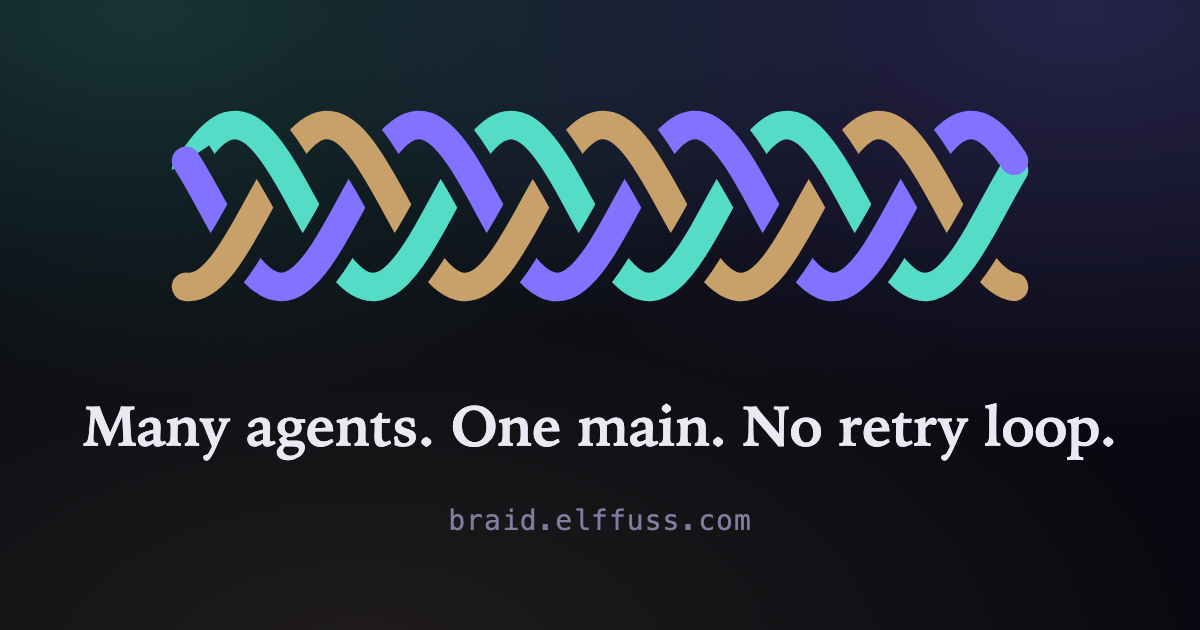
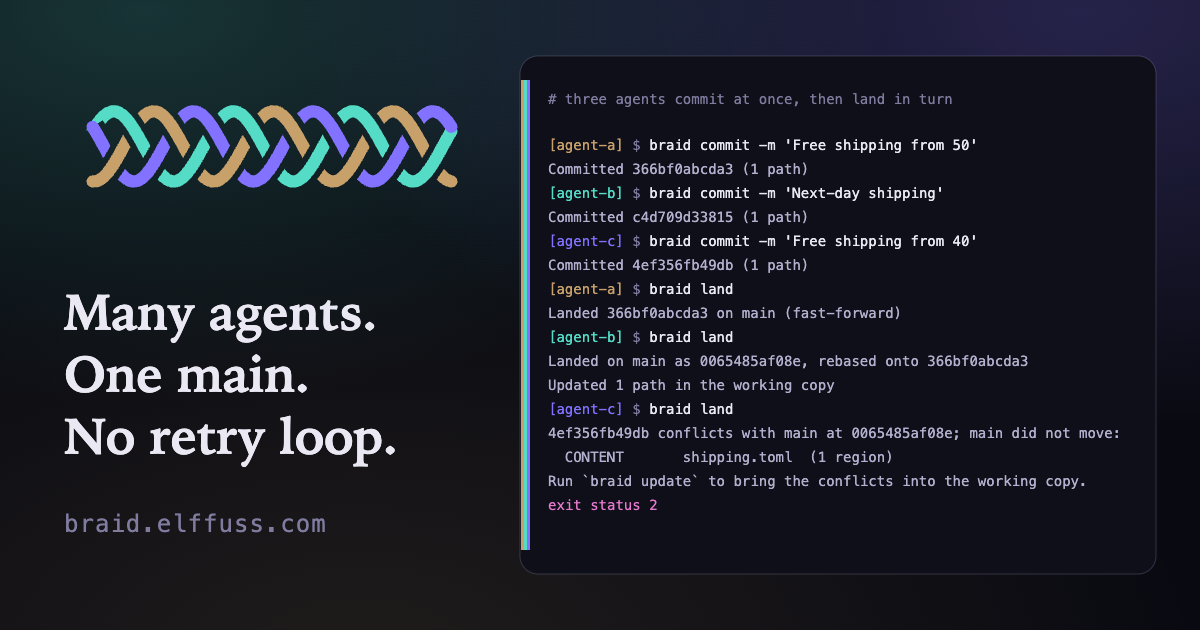
Site: a share image that shows braid at work
The Open Graph image keeps the logo and the claim, in English, and adds a
terminal with the real three-agent scene: three commits at once, a
fast-forward, a rebase, and the conflict that leaves main where it was.
The lines are braid's own output, written as SVG text so they stay sharp.

Changed region(s): [[0.0308, 0.0905, 0.9867, 0.8746], [0.0308, 0.8143, 0.2775, 0.8444]]

diff --git a/site/index.html b/site/index.html
@@ -20,14 +20,14 @@
 <meta property="og:image:type" content="image/png">
 <meta property="og:image:width" content="1200">
 <meta property="og:image:height" content="630">
-<meta property="og:image:alt" content="The Elffuss Braid logo, three strands braided together, above the line: Many agents. One main. No retry loop.">
+<meta property="og:image:alt" content="The Elffuss Braid logo and the line Many agents. One main. No retry loop., beside a terminal where three agents commit at once and land in turn, and the third, which changed the same line as the first, gets a conflict while main does not move.">
 <meta property="og:locale" content="en_US">
 <meta property="og:locale:alternate" content="es_ES">
 <meta name="twitter:card" content="summary_large_image">
 <meta name="twitter:title" content="Elffuss Braid">
 <meta name="twitter:description" content="Version control for repositories where many AI agents land changes at the same time. Written from scratch in Rust, with git at the edges. Pre-alpha, Apache-2.0.">
 <meta name="twitter:image" content="https://braid.elffuss.com/og.png">
-<meta name="twitter:image:alt" content="The Elffuss Braid logo, three strands braided together, above the line: Many agents. One main. No retry loop.">
+<meta name="twitter:image:alt" content="The Elffuss Braid logo and the line Many agents. One main. No retry loop., beside a terminal where three agents commit at once and land in turn, and the third, which changed the same line as the first, gets a conflict while main does not move.">
 <link rel="icon" href="favicon.svg" type="image/svg+xml">
 <link rel="icon" href="favicon-32.png" type="image/png" sizes="32x32">
 <link rel="apple-touch-icon" href="apple-touch-icon.png">
